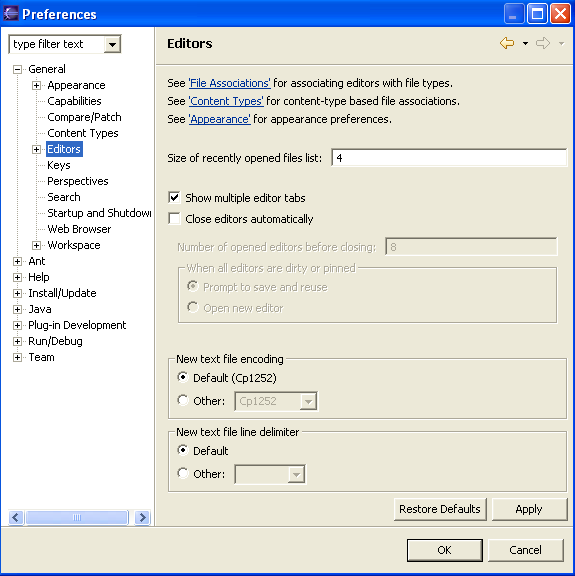
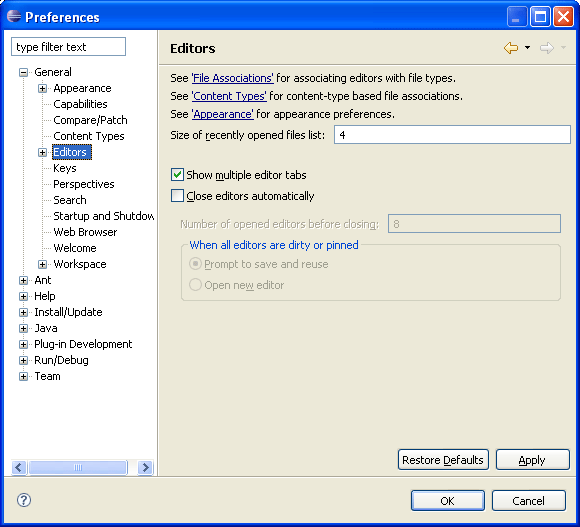
Fix for Bug 142310 [Doc] Editors Preference doc is out of date

Changed region(s): [[0.0, 0.0, 1.0, 1.0], [0.4139, 0.7894, 0.5322, 0.8501]]

diff --git a/bundles/org.eclipse.platform.doc.user/reference/ref-9.htm b/bundles/org.eclipse.platform.doc.user/reference/ref-9.htm
@@ -53,9 +53,36 @@
         on the number of resources you have in your workspace. </p></td>
     <td>Off </td>
   </tr>
+  <TR> 
+    <TD COLSPAN="1" valign="top" align="left">Open referenced projects when a 
+      project is opened</TD>
+    <TD COLSPAN="1" valign="top" align="left">If this option is enabled opening 
+      a project will also open and closed projects it references. Select prompt 
+      if you wish to be asked first.</TD>
+    <TD COLSPAN="1" valign="top" align="left">Prompt</TD>
+  </TR>
+  <TR> 
+    <TD ROWSPAN="1" COLSPAN="1" valign="top" align="left"> <P CLASS="Para">Text 
+        file encoding</P></TD>
+    <TD ROWSPAN="1" COLSPAN="1" valign="top" align="left"> <P CLASS="Para"> Use 
+        this option to specify the encoding to use when saving text files in editors. 
+      </P></TD>
+    <TD ROWSPAN="1" COLSPAN="1" valign="top" align="left"> <P CLASS="Para">Default 
+        (CP1252)</P></TD>
+  </TR>
+  <TR> 
+    <TD ROWSPAN="1" COLSPAN="1" valign="top" align="left"> <P CLASS="Para">Text 
+        File line delimiter</P></TD>
+    <TD ROWSPAN="1" COLSPAN="1" valign="top" align="left"> <P CLASS="Para"> Use 
+        this option to specify the line delimiter to use for new text files. <strong>Note:</strong> 
+        This will generally not effect the file line delimiter for<br>
+        existing files.</P></TD>
+    <TD ROWSPAN="1" COLSPAN="1" valign="top" align="left"> <P CLASS="Para">Default 
+      </P></TD>
+  </TR>
 </table>
-<p>Here is what the <strong>Workspace</strong> preferences page looks like:</p> 
-<p><img src="../images/Image209_workspace.png" alt="Preference dialog" border="0" ></p>
+<p>&nbsp;</p><p>Here is what the <strong>Workspace</strong> preferences page looks like:</p> 
+<p><img src="../images/Image209_workspace.png" alt="Preference dialog" width="580" height="527" border="0" ></p>
 
 
 </body>

diff --git a/bundles/org.eclipse.platform.doc.user/reference/ref-12.htm b/bundles/org.eclipse.platform.doc.user/reference/ref-12.htm
@@ -55,26 +55,6 @@ The following preferences can be changed on the Editors page.</P>
           recycled. </P></TD>
       <TD ROWSPAN="1" COLSPAN="1" valign="top" align="left"> <P CLASS="Para">Off</P></TD>
     </TR>
-    <TR> 
-      <TD ROWSPAN="1" COLSPAN="1" valign="top" align="left"> <P CLASS="Para">Text 
-          file encoding</P></TD>
-      <TD ROWSPAN="1" COLSPAN="1" valign="top" align="left"> <P CLASS="Para"> 
-          Use this option to specify the encoding to use when saving text files 
-          in editors. </P></TD>
-      <TD ROWSPAN="1" COLSPAN="1" valign="top" align="left"> <P CLASS="Para">Default 
-          (CP1252)</P></TD>
-    </TR>
-    <TR> 
-      <TD ROWSPAN="1" COLSPAN="1" valign="top" align="left"> <P CLASS="Para">Text 
-          File line delimiter</P></TD>
-      <TD ROWSPAN="1" COLSPAN="1" valign="top" align="left"> <P CLASS="Para"> 
-          Use this option to specify the line delimiter to use for new text files. 
-          <strong>Note:</strong> This will generally not effect the file line 
-          delimiter for<br>
-          existing files.</P></TD>
-      <TD ROWSPAN="1" COLSPAN="1" valign="top" align="left"> <P CLASS="Para">Default 
-        </P></TD>
-    </TR>
   </TBODY>
 </TABLE>
 <P>&nbsp;
@@ -85,7 +65,7 @@ The following preferences can be changed on the Editors page.</P>
 </P>
 
 
-<P><img src="../images/Image220_pref_dte.png" alt="Editors Preference Page" border="0" >
+<P><img src="../images/Image220_pref_dte.png" alt="Editors Preference Page" width="580" height="527" border="0" > 
 </P>
 
 <P><img border="0" src="../images/ngrelr.png" alt="Related reference" >
